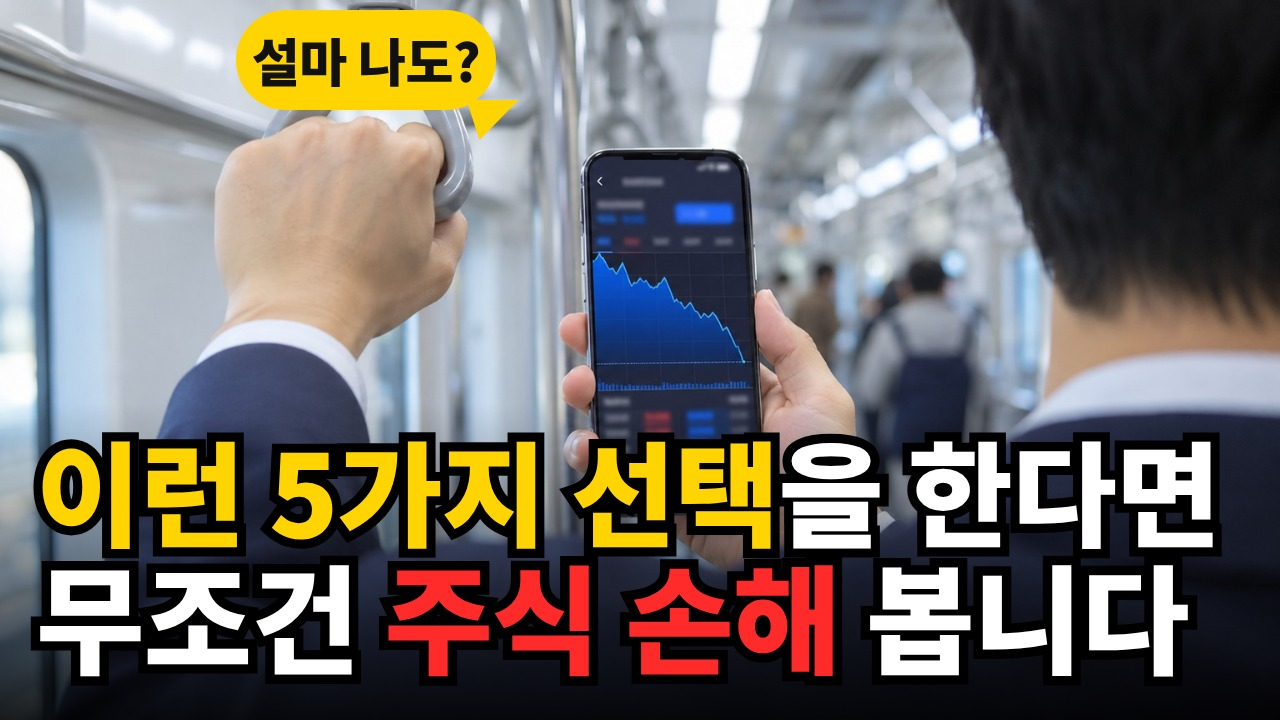
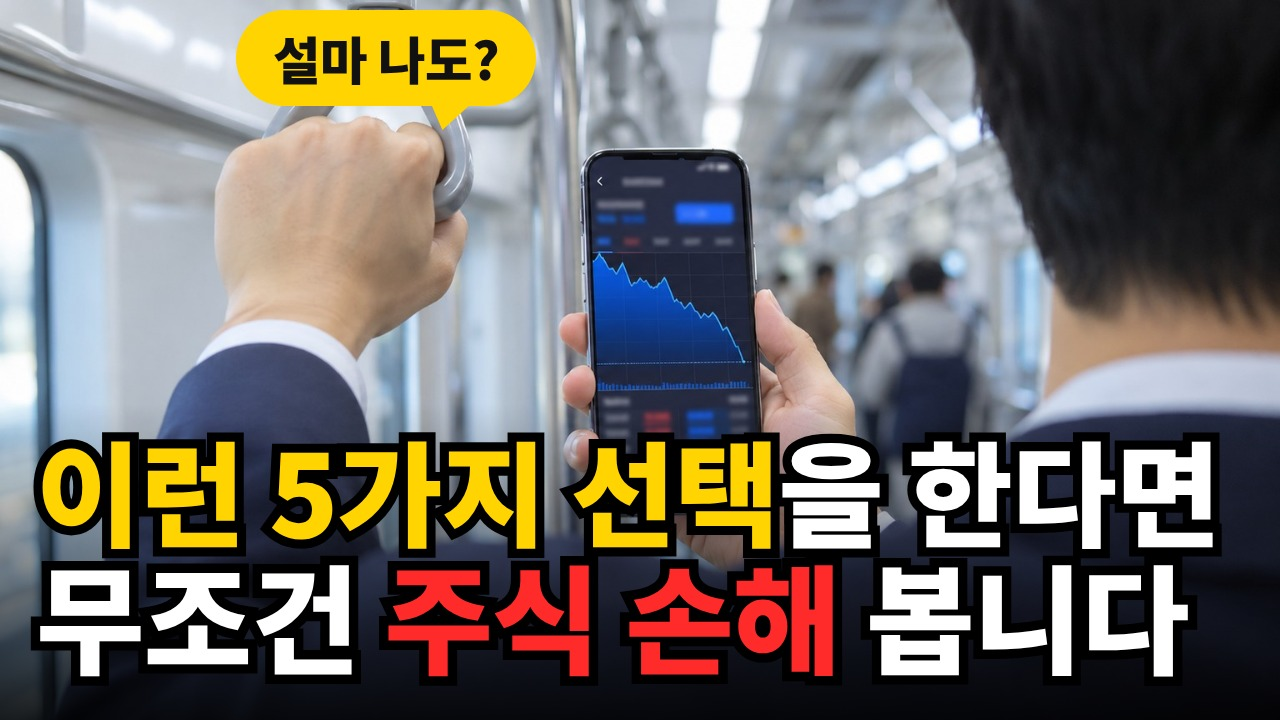
[stock] 1편 A/B 썸네일 — '설마 나도?' 말풍선 꼬리 바로 · '주식으로' 노랑 · thumbnail_guide 13-6
사용자 지시 "설마 나도 말풍선 삐뚤어져수 수정하고 주식으로는 노란색 칠해".

Claude-Session: https://claude.ai/code/session_01PYG2Mrbc8C4HDSnBDWyHf6

Changed region(s): [[0.1875, 0.0, 0.4375, 0.1833]]

diff --git a/stock/source/ppalli-test-2026-11/upload.md b/stock/source/ppalli-test-2026-11/upload.md
@@ -1,6 +1,7 @@
 # ppalli-test-2026-11 업로드 시트
 
-버전: v1.15 — 2026-11-06 — 1-1번 B·C 썸네일 문구·말풍선 (사용자 지시 "이런 5가지 선택~ 무조건 주식 손해~ 이렇게 수정하고 보조문구는 설마 나도? 설정하고 주식으로 돈 버는 ~ 상위10% 이렇게 수정하고 보조 문구는 주식 손해만 보네...  수정해").
+버전: v1.16 — 2026-11-06 — 1-1번 B 말풍선 꼬리 · C '주식으로' 노랑 (사용자 지시 "설마 나도 말풍선 삐뚤어져수 수정하고 주식으로는 노란색 칠해").
+이전 v1.15 — 2026-11-06 — 1-1번 B·C 썸네일 문구·말풍선 (사용자 지시 "이런 5가지 선택~ 무조건 주식 손해~ 이렇게 수정하고 보조문구는 설마 나도? 설정하고 주식으로 돈 버는 ~ 상위10% 이렇게 수정하고 보조 문구는 주식 손해만 보네...  수정해").
 이전 v1.14 — 2026-11-05 — 1-1번 A/B 테스트 제목·썸네일 짝 (사용자 지시 "1. 주식 투자 중 이런 선택을 한다면 당신은 무조건 손해볼겁니다 2. 주식으로 돈버는 상위 %는 절대 이렇게 선택하지 않습니다 이 두가지 제목에 맞춰 썸네일 문구들 새로 만들어봐 상위%는 몇프로인지 평균 수치로 채우고" → "1편 ab 테스트에 쓸거야") · 썸네일 2·3 문구 새로.
 이전 v1.13 — 2026-11-05 — 외국어 설정 (사용자 지시 "외국어 자막, 제목, 썸네일 등 외국어 설정에 필요한 것들 생성하고 지시사항에 반영해 이건 영상이 렌더까지 완료되면 하는거야"): 6번 언어별 제목·설명 9개 언어(en·hi·id·pt·es-419·ja·de·vi·tr — 1·2번 그대로 옮김, 챕터 시각 같음) · 자막 = 한국어 + 언어별 SRT 9개 (`subs/`, `tools/subs_tool.py` build — 완성 영상의 문장 시각) · 언어별 썸네일 `thumbnails/<언어>/thumbnail_1.jpg` (`thumb.mjs` v1.2 lang) · 업로드 설정에 기본 언어 ko · 자막 올리기 언어별 · 섹션 번호 6→7·7→8·8→9.
 이전 v1.12 — 2026-11-05 — 설명란 줄임·태그 늘림 (사용자 지시 "김씨는 실제 숫자로 만든 가상의 인물입니다. 내레이션은 AI 음성이고, 그림은 AI로 만든 연출입니다. 다섯 가지 선택, 계산기준빼고 태그도 더 추가 하는걸로 설명 만들자 지시사항에도 반영해" — `stock/guides/quick_board.md` 규칙 45): '다섯 가지 선택'·'계산 기준'·'○씨는 가상의 인물'·'AI 음성/그림' 줄 뺌 · 태그 24개(편 낱말 + 실제 영상 태그 `stock/tag_candidates.md`).
@@ -33,8 +34,9 @@
 |---|---|---|---|
 | A (본안) | 주식 투자 실패하는 사람들은 절대 통과 못하는 테스트 | `thumbnails/thumbnail_1.jpg` | 주식 투자 실패하는 사람들은 / 절대 통과 못하는 테스트 · 「-50%, -70% 손실」「설마 나도?」 |
 | B | 주식 투자 중 이런 선택을 한다면 당신은 무조건 손해볼겁니다 | `thumbnails/thumbnail_2.jpg` | **이런 5가지 선택**을 한다면 / 무조건 **주식 손해** 봅니다 · 「설마 나도?」 |
-| C | 주식으로 돈버는 상위 10%는 절대 이렇게 선택하지 않습니다 | `thumbnails/thumbnail_3.jpg` | 주식으로 돈 버는 **상위 10%**는 / **절대 이렇게** 선택 안 합니다 · 「주식 손해만 보네...」 |
+| C | 주식으로 돈버는 상위 10%는 절대 이렇게 선택하지 않습니다 | `thumbnails/thumbnail_3.jpg` | **주식으로** 돈 버는 **상위 10%**는 / **절대 이렇게** 선택 안 합니다 · 「주식 손해만 보네...」 |
 
+- 2026-11-06 B 말풍선 꼬리를 평평한 아래쪽으로(삐뚤어 보임) · C '주식으로' 노랑 (사용자 지시 "설마 나도 말풍선 삐뚤어져수 수정하고 주식으로는 노란색 칠해").
 - 2026-11-06 문구·말풍선 고침 (사용자 지시 "이런 5가지 선택~ 무조건 주식 손해~ 이렇게 수정하고 보조문구는 설마 나도? 설정하고 주식으로 돈 버는 ~ 상위10% 이렇게 수정하고 보조 문구는 주식 손해만 보네...  수정해").
 - 'A/B 테스트' 는 API 로 못 함 — 사용자가 스튜디오에서 (영상 → 제목 옆 '테스트 및 비교' → 제목·썸네일 3안). 그림은 셋 다 본안과 같은 실사(`images/TH-PHOTO2.jpg`), 문구만 다름.
 - **'상위 10%'** = 사용자 지시 '평균 수치로' → 흔히 인용되는 '개인 투자자 10%만 번다(90%는 잃는다)' 값. ⚠ 이 값을 직접 밝힌 2020년대 1차 연구는 찾지 못함 (2026-11-05 검색 — 자본시장연구원 2021: 2020년 3~10월 개인 약 20만 명 가운데 약 46% 손실 · 1편 영상 안에는 이 숫자를 증명하는 장면 없음, CLAUDE.md '숫자는 대본이 증명'과 어긋남 — 사용자 확인 필요).

diff --git a/guides/thumbnail_guide.md b/guides/thumbnail_guide.md
@@ -1,6 +1,7 @@
 # 썸네일 지시사항 (공통)
 
-버전: v3.17 — 2026-11-05 — **보조 문구(말풍선·꼬리표)는 사람을 가리지 않는 빈 자리에** — 사용자 지시 "썸네일 보조 문구가 사람 가리지 않게 해" (13번 5 · 주식 `stock/guides/quick_board.md` 규칙 47).
+버전: v3.18 — 2026-11-06 — **말풍선 꼬리는 평평한 아래쪽에** — 13-6 (사용자 지시 "설마 나도 말풍선 삐뚤어져수 수정하고 주식으로는 노란색 칠해").
+이전 v3.17 — 2026-11-05 — **보조 문구(말풍선·꼬리표)는 사람을 가리지 않는 빈 자리에** — 사용자 지시 "썸네일 보조 문구가 사람 가리지 않게 해" (13번 5 · 주식 `stock/guides/quick_board.md` 규칙 47).
 이전 v3.16 — 2026-11-04 — **주식 쇼츠 썸네일도 세 칸(band)** — 사용자 지시 "쇼츠 처음 썸네일 면세처럼 문구랑 이미지 위치 나눠야지" (1편 `stock/source/ppalli-test-2026-11/shorts/thumbnails/thumbnail_1.json` v2 — 실사 TH-PHOTO2 를 가운데 칸 y 680~1371, 문구 2줄 위 칸, 말풍선 · `thumbnail_1.md` COVER_LAYOUT: band · cover_check ✅). 그 전 '주식 쇼츠 = 사진이 화면 끝까지'는 버림.
 이전 v3.15 — 2026-10-25 — **시험 채널(`test/`)은 그림만 ChatGPT, 문구는 코드** (사용자 지시 "그 썸네일은 이제 이미지만 만들고 문구는 너가 만들어서 넣는식으로 하자") — 13번. 다른 주제는 그대로(문구까지 ChatGPT).
 (v3.14.1 — 2026-10-18 — 9번 2 메시지 주소를 커밋 고정 주소로 (피드백 25 와 맞춤 — 예전 예시는 main 주소였음).
@@ -294,4 +295,5 @@
 3. 규칙은 그대로: 아래 2줄(채택 제목을 줄인 말) · 나쁜 상황 빨강 · 중요 노랑 · 롱폼 2줄째는 오른쪽 아래 18% 칸을 비움(영상 길이 표시) · 쇼츠는 세 칸(band) — 만든 뒤 `python3 tools/cover_check.py --layout band` 와 눈으로 확인.
 4. 조사로 뜻을 분명히(4번)·그림 = 문구의 장면(5번)은 같다 — 문구는 설정 파일에서 고친다.
 5. **보조 문구(말풍선·꼬리표)는 사람을 가리지 않는다** (v3.17 — 사용자 지시 2026-11-05 "썸네일 보조 문구가 사람 가리지 않게 해"): 자리 = 그림 속 사람(머리·몸·손)·손에 든 화면 밖의 빈 자리 · 좁으면 두 줄 말풍선("\n", `thumb.mjs` v1.3) → 위아래 둘 → 글자 줄임 (낱말은 그대로) · 설정 파일 말풍선마다 `_자리` · 언어별 썸네일도 모두 직접 봄. 이미 올린 영상은 `tools/youtube_upload.py <주제> <영상ID> --thumbnail-only`.
+6. **말풍선 꼬리는 평평한 아래쪽에** (v3.18 — 사용자 지시 2026-11-06 "설마 나도 말풍선 삐뚤어져수 수정하고 주식으로는 노란색 칠해"): 꼬리 자리 `tailPos` 가 둥근 끝(모서리 반지름 안 — 폭 대비 `radius ÷ w` 바깥쪽)에 오면 꼬리가 옆으로 삐져나와 말풍선이 기울어 보임 → 짧은 말풍선은 폭을 넓히거나 `tailPos` 를 0.25~0.75 안으로 (예 1편 썸네일 2 「설마 나도?」 폭 300·모서리 48·꼬리 0.62).
 

diff --git a/guides/status.md b/guides/status.md
@@ -1,5 +1,6 @@
 # 지금 상태·다음 할 일 (인수인계)
 
+버전: v3.76 — 2026-11-06 — **1편 A/B 썸네일 손봄** (사용자 "설마 나도 말풍선 삐뚤어져수 수정하고 주식으로는 노란색 칠해"): B 「설마 나도?」 말풍선 꼬리를 둥근 끝 → 평평한 아래쪽(폭 260→300) · C 1줄 「주식으로」 노랑 — 1편 시트 v1.16
 버전: v3.75 — 2026-11-06 — **1편 A/B 썸네일 고침** (사용자 "이런 5가지 선택~ 무조건 주식 손해~ 이렇게 수정하고 보조문구는 설마 나도? 설정하고 주식으로 돈 버는 ~ 상위10% 이렇게 수정하고 보조 문구는 주식 손해만 보네...  수정해"): B 「이런 5가지 선택을 한다면 / 무조건 주식 손해 봅니다」 + 「설마 나도?」 · C 「주식으로 돈 버는 상위 10%는 / 절대 이렇게 선택 안 합니다」 + 「주식 손해만 보네...」 — 1편 시트 v1.15
 버전: v3.74 — 2026-11-06 — **1편 A/B 테스트 짝** (사용자 "1. 주식 투자 중 이런 선택을 한다면 당신은 무조건 손해볼겁니다 2. 주식으로 돈버는 상위 %는 절대 이렇게 선택하지 않습니다 이 두가지 제목에 맞춰 썸네일 문구들 새로 만들어봐 상위%는 몇프로인지 평균 수치로 채우고" → "1편 ab 테스트에 쓸거야"): B 「주식 투자 중 이런 선택을 한다면 당신은 무조건 손해볼겁니다」 + thumbnail_2 「이런 선택을 한다면 / 무조건 손해 봅니다」 · C 「주식으로 돈버는 상위 10%는 절대 이렇게 선택하지 않습니다」 + thumbnail_3 「돈 버는 상위 10%는 / 절대 이렇게 선택 안 합니다」 — 1편 시트 v1.14 1-1번 · 스튜디오 '테스트 및 비교'는 사용자가 · ⚠ '상위 10%' 근거 1차 연구 없음(사용자 확인)
 버전: v3.73 — 2026-11-05 — **2편 음성 확인** (사용자 "2편 음성 확인해서 발음 이상하거나 이상한 소리나는 부분 찾아봐"): 새 도구 `tools/audio_check.py` v1.0 (음성 인식은 이 환경에서 막힘 — 소리 모양 후보 + 발음 확인 낱말) → 2편 롱폼 문장 29 「당신은 그사이…」 앞 0.2초 웅얼거림 → 무음 (narration.mp3 · 완성 mp4) · 2편 쇼츠 후보 0 · 귀로 확인할 것 2편 문장 18·84·85 · ⚠ 같은 잡음 3편 문장 72 · 4편 문장 9 (아직 안 고침) · ⚠ 올린 `EV12LtESXuI` 는 옛 소리 — 1편처럼 새로 올리고 옛 것 지워야 함 (사용자 확인 기다림) · tts_guide v1.21 · quick_board v3.10 · CLAUDE.md

diff --git a/CHANGELOG.md b/CHANGELOG.md
@@ -1,5 +1,11 @@
 # CHANGELOG — youtube_topic_analyzer
 
+## 2026-11-06 — 1편 A/B 썸네일 손봄 (말풍선 꼬리 · '주식으로' 노랑)
+
+- 사용자 지시 "설마 나도 말풍선 삐뚤어져수 수정하고 주식으로는 노란색 칠해".
+- 썸네일 2 「설마 나도?」: 짧은 말풍선(폭 260)의 둥근 오른쪽 끝(tailPos 0.86)에 꼬리가 붙어 옆으로 삐져나와 기울어 보임 → 폭 300 · 모서리 48 · 꼬리 0.62(평평한 아래쪽) · 썸네일 3 1줄 「**주식으로** 돈 버는 **상위 10%**는」. 다시 그려 확대해 봄.
+- 썸네일 말풍선 규칙(쓸 때): 짧은 말풍선은 꼬리를 둥근 끝(모서리 반지름 안)에 두지 않는다.
+
 ## 2026-11-06 — 1편 A/B 썸네일 2·3 문구·말풍선 고침
 
 - 사용자 지시 "이런 5가지 선택~ 무조건 주식 손해~ 이렇게 수정하고 보조문구는 설마 나도? 설정하고 주식으로 돈 버는 ~ 상위10% 이렇게 수정하고 보조 문구는 주식 손해만 보네...  수정해".
